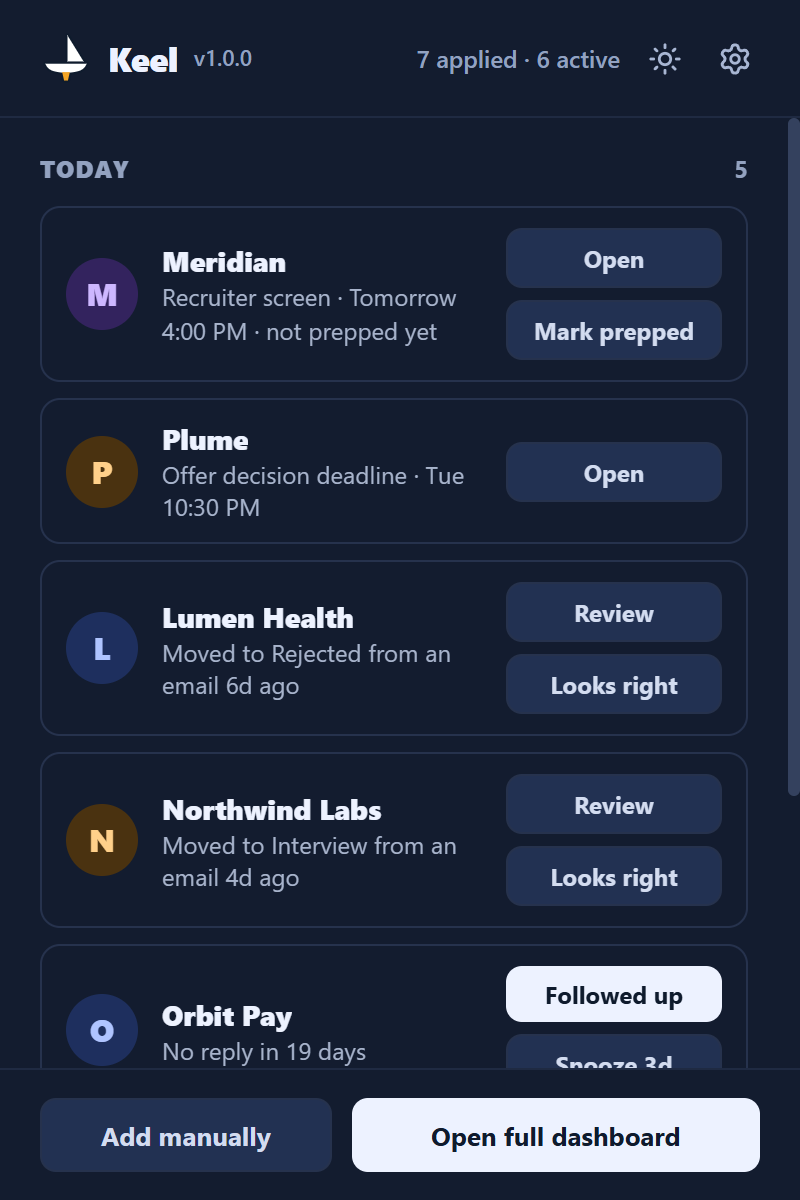
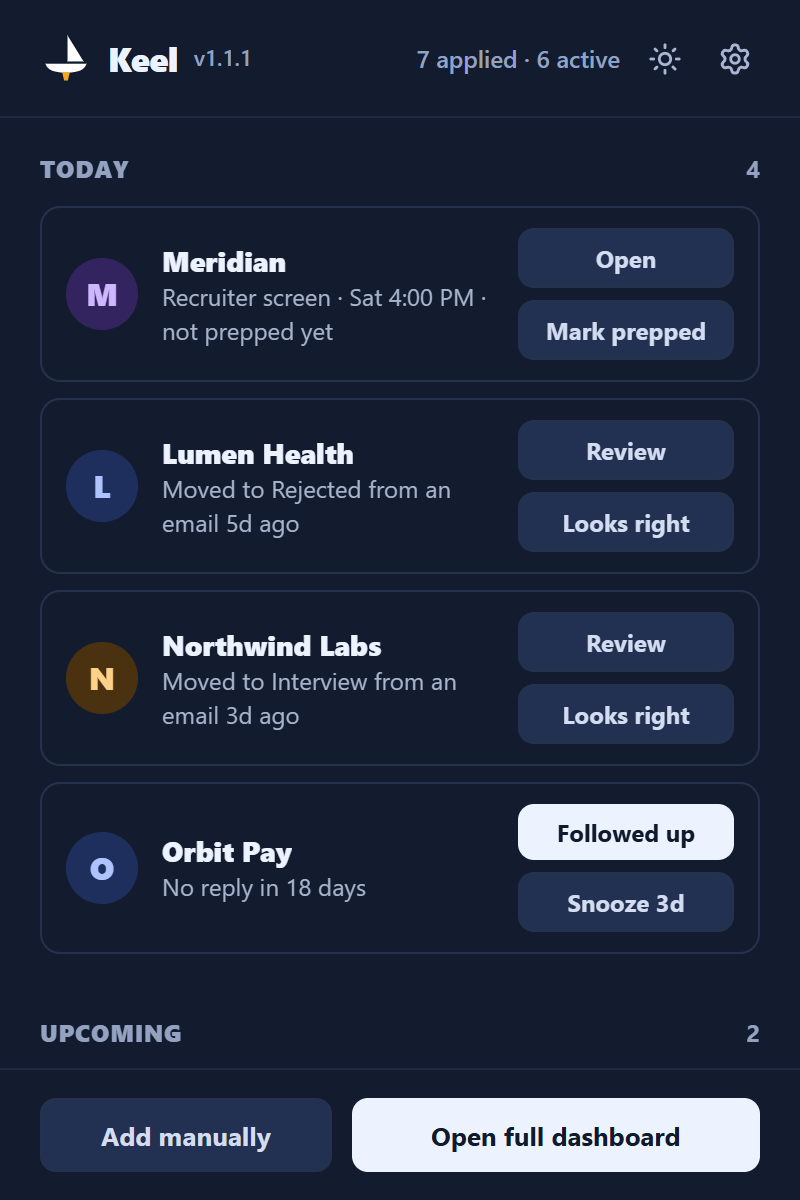
docs(changelog): promote v1.1.1 to Live on marketing site
Refresh the homepage board and popup images from the released 1.1.1 build (they still showed 1.0.0, without Insights or the header links).

diff --git a/index.html b/index.html
@@ -31,7 +31,7 @@
     <h1>Keeps track of every job you apply to</h1>
     <p>Apply as you normally do. Keel saves the company, the role, the job description and the résumé you sent, right in your browser.</p>
     <div class="cta" data-store-slot="hero"></div>
-    <!-- whats-new:start --><p class="whats-new"><span class="tag">New in 1.1.0</span> Insights, Naukri, and quieter autofill. <a href="changelog/#v1.1.0">Release notes</a></p><!-- whats-new:end -->
+    <!-- whats-new:start --><p class="whats-new"><span class="tag">New in 1.1.1</span> Ashby applications saved properly, and tidy confirmations on every site. <a href="changelog/#v1.1.1">Release notes</a></p><!-- whats-new:end -->
     <picture>
       <source srcset="assets/board-dark.png" media="(prefers-color-scheme: dark)">
       <img class="shot" src="assets/board-light.png" width="1440" height="760" alt="Keel's dashboard: applications in columns from Wishlist to Offer, with upcoming interviews and follow-ups">

diff --git a/changelog/index.html b/changelog/index.html
@@ -28,8 +28,8 @@
       </ul>
     </article>
     <article class="release" id="v1.1.1">
-      <h2>Version 1.1.1 <span class="tag tag-pending">In review</span></h2>
-      <p class="release-meta">Waiting for Chrome Web Store review</p>
+      <h2>Version 1.1.1 <span class="tag">Latest</span></h2>
+      <p class="release-meta">18 November 2026</p>
       <p class="release-headline">Ashby applications saved properly, and tidy confirmations on every site.</p>
       <ul>
         <li>On Ashby, Keel saves the real job description and company name, even when you apply from the application tab</li>
@@ -37,7 +37,7 @@
       </ul>
     </article>
     <article class="release" id="v1.1.0">
-      <h2>Version 1.1.0 <span class="tag">Latest</span></h2>
+      <h2>Version 1.1.0</h2>
       <p class="release-meta">14 November 2026</p>
       <p class="release-headline">Insights, Naukri, and quieter autofill.</p>
       <ul>
